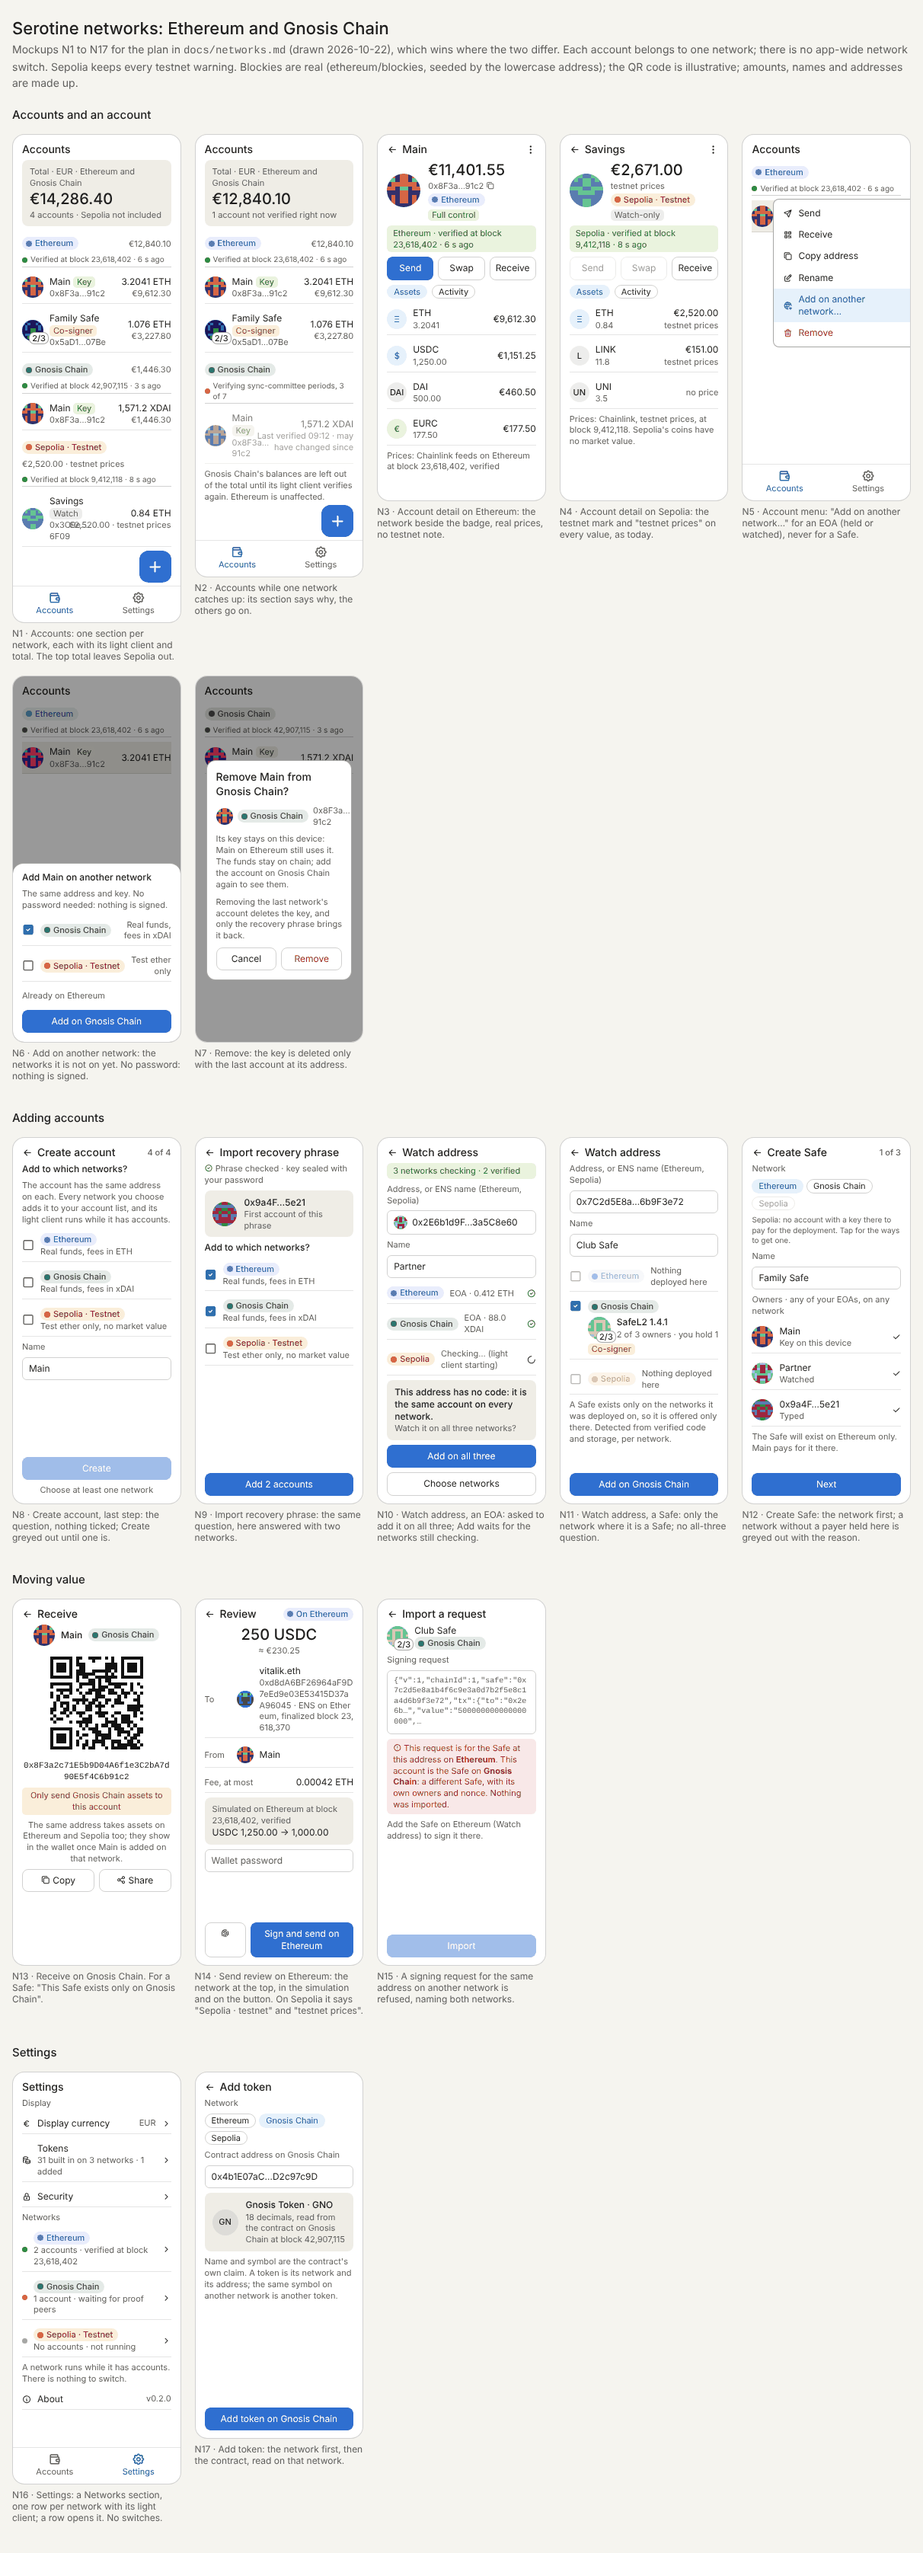
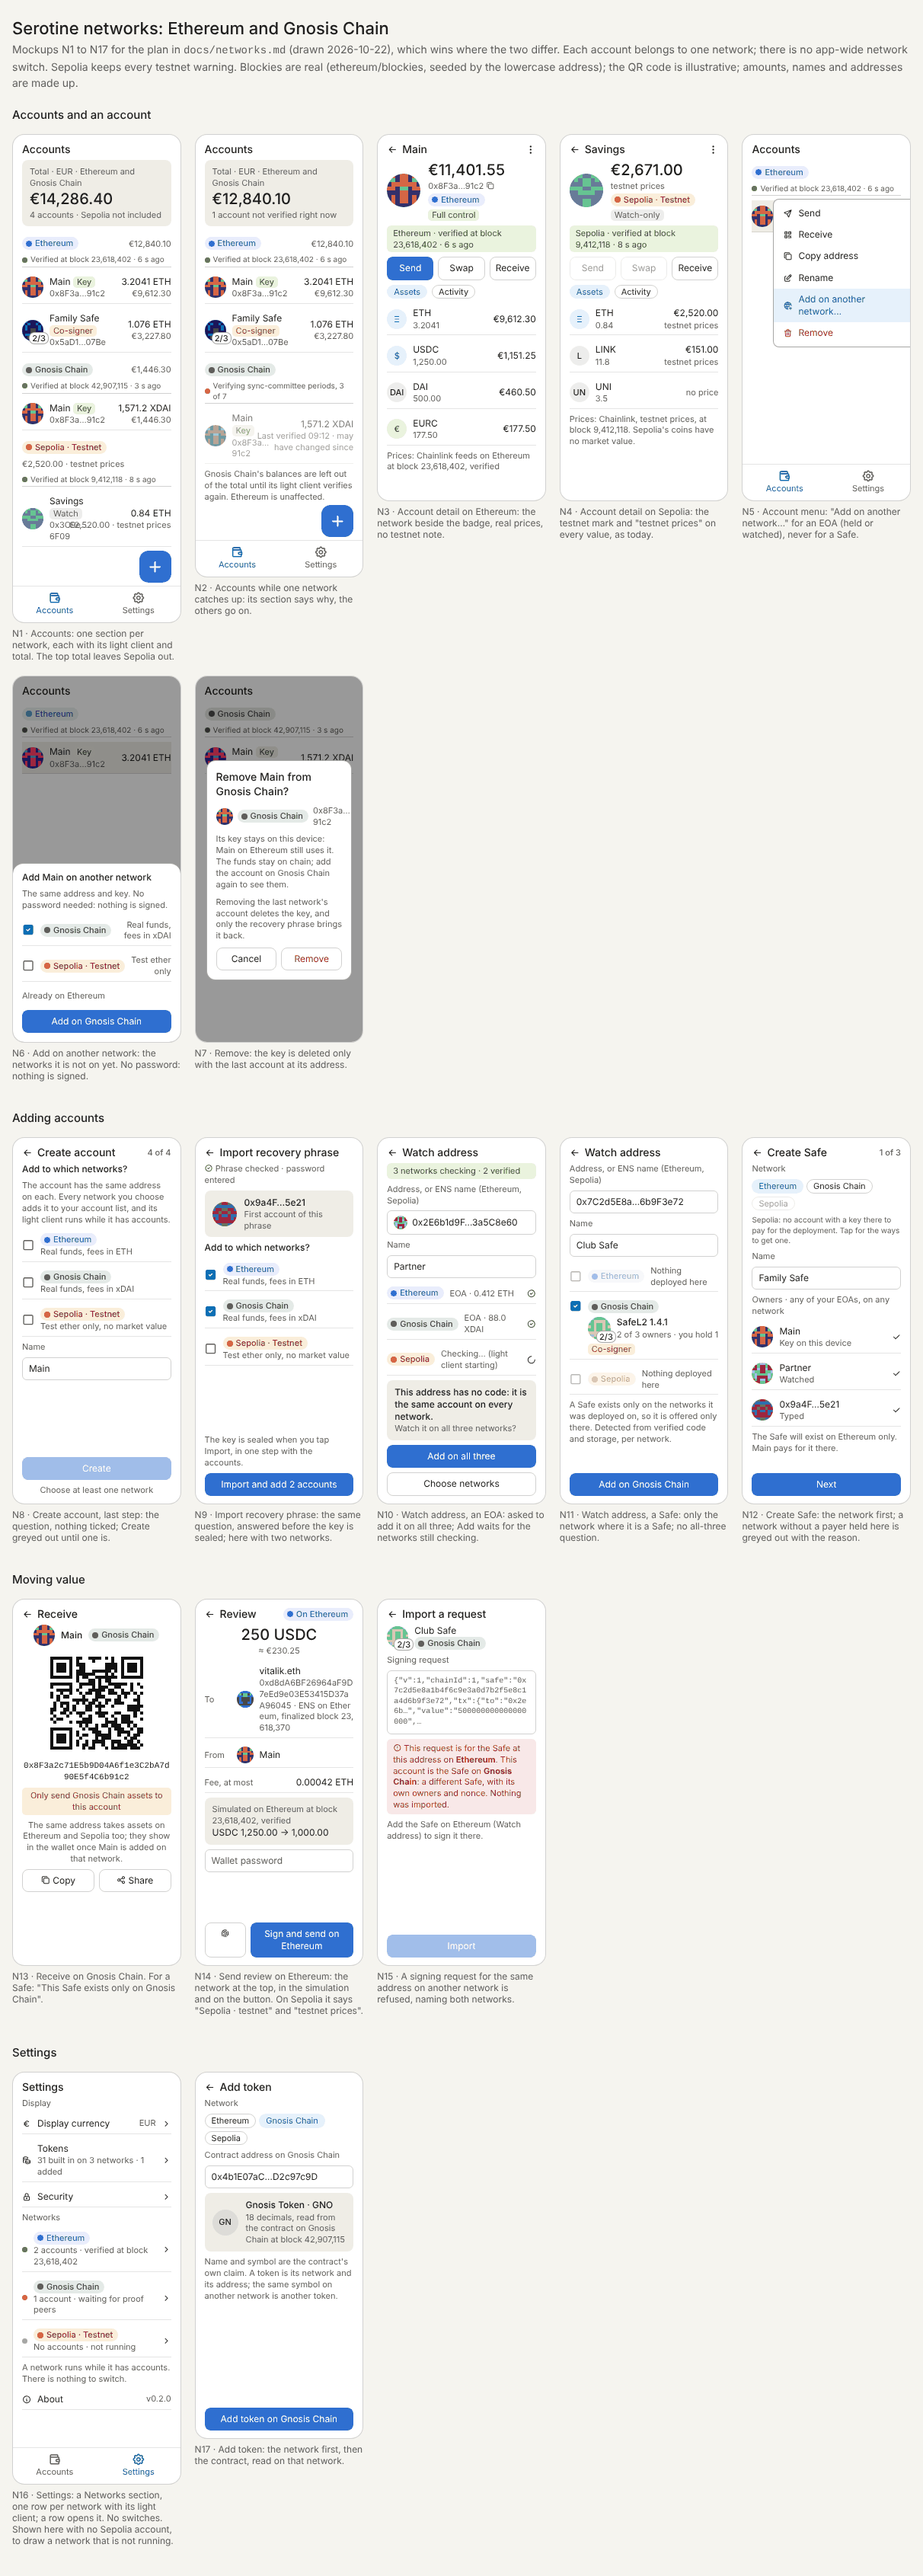
Review: the key is sealed with its accounts; the merge question is open; N16's caption
- Import asks the network question before the key is sealed, and seals the
  key and adds the accounts in one step, as ImportMnemonicAccount does today,
  so no envelope is left without an account (N9 redrawn).
- The plan says the part-merge question of CLAUDE.md's multi-PR rule is still
  the owner's to answer.
- N16's caption and text say it is drawn with no Sepolia account, unlike N1.

Claude-Session: https://claude.ai/code/session_01B5KcUadnEvACcxacJi8eya

diff --git a/docs/networks-screens.html b/docs/networks-screens.html
@@ -193,14 +193,15 @@ h2.grp{font-size:15px;font-weight:500;margin:22px 0 0}
 <div><div class="ph">
 <div class="hd"><i class="ti ti-arrow-left" aria-hidden="true"></i><span class="f">Import recovery phrase</span></div>
 <div class="bd">
-<div class="m"><i class="ti ti-circle-check" style="color:var(--text-success)" aria-hidden="true"></i> Phrase checked · key sealed with your password</div>
+<div class="m"><i class="ti ti-circle-check" style="color:var(--text-success)" aria-hidden="true"></i> Phrase checked · password entered</div>
 <div class="tot" style="display:flex;gap:10px;align-items:center"><canvas class="bl" style="width:32px;height:32px" data-a="0x9a4fe2c71b6d3e8a5c9f0b2d7e4a1c6f3b8d5e21" width="8" height="8"></canvas><div><div style="font-weight:500">0x9a4F…5e21</div><div class="m">First account of this phrase</div></div></div>
 <div style="font-weight:500">Add to which networks?</div>
 <div class="r"><i class="ti ti-square-check-filled ck" aria-hidden="true"></i><div class="f"><span class="nw eth">Ethereum</span><div class="m">Real funds, fees in ETH</div></div></div>
 <div class="r"><i class="ti ti-square-check-filled ck" aria-hidden="true"></i><div class="f"><span class="nw gno">Gnosis Chain</span><div class="m">Real funds, fees in xDAI</div></div></div>
 <div class="r"><i class="ti ti-square cko" aria-hidden="true"></i><div class="f"><span class="nw sep">Sepolia · Testnet</span><div class="m">Test ether only, no market value</div></div></div>
-<div class="btn pri" style="margin-top:auto;margin-bottom:10px">Add 2 accounts</div>
-</div></div><div class="cap">N9 · Import recovery phrase: the same question, here answered with two networks.</div></div>
+<div class="m" style="margin-top:auto">The key is sealed when you tap Import, in one step with the accounts.</div>
+<div class="btn pri" style="margin-bottom:10px">Import and add 2 accounts</div>
+</div></div><div class="cap">N9 · Import recovery phrase: the same question, answered before the key is sealed; here with two networks.</div></div>
 
 <div><div class="ph">
 <div class="hd"><i class="ti ti-arrow-left" aria-hidden="true"></i><span class="f">Watch address</span></div>
@@ -302,7 +303,7 @@ h2.grp{font-size:15px;font-weight:500;margin:22px 0 0}
 <div class="r"><i class="ti ti-info-circle" aria-hidden="true"></i><div class="f">About</div><span class="m">v0.2.0</span></div>
 </div>
 <div class="nav"><div><i class="ti ti-wallet" aria-hidden="true"></i>Accounts</div><div class="on"><i class="ti ti-settings" aria-hidden="true"></i>Settings</div></div>
-</div><div class="cap">N16 · Settings: a Networks section, one row per network with its light client; a row opens it. No switches.</div></div>
+</div><div class="cap">N16 · Settings: a Networks section, one row per network with its light client; a row opens it. No switches. Shown here with no Sepolia account, to draw a network that is not running.</div></div>
 
 <div><div class="ph">
 <div class="hd"><i class="ti ti-arrow-left" aria-hidden="true"></i><span class="f">Add token</span></div>

diff --git a/docs/networks.md b/docs/networks.md
@@ -305,7 +305,17 @@ network where docs/wallet-ux.md has it say "Sepolia" today.
   ether only"). Create is greyed out until one is ticked; a tap on it says
   so. The key is sealed once; one account per network ticked is added under
   the name given.
-- **N9 Import recovery phrase**: the same question at the end of the import.
+- **N9 Import recovery phrase**: the same question, the last thing asked
+  before Import.
+- **The key is sealed only together with its accounts.** The network
+  question is answered before the seal, never after it. Then the seal and
+  the accounts are added in one step that a cancelled caller cannot cut in
+  half, as `ImportMnemonicAccount` already does for its one account: key
+  first, then the accounts. So no envelope is ever left without an account
+  pointing at it, and `RemoveAccount`'s last-account rule always has one to
+  find. An address already watched on some networks becomes held there,
+  whether or not those networks were ticked, and the ticked ones add the
+  rest.
 - **N10 Watch address, an EOA**: the address (or a name, on Ethereum or
   Sepolia), then the detection per network, each row with what the network
   says (EOA, and the native balance once verified). When the address is an
@@ -340,6 +350,8 @@ network where docs/wallet-ux.md has it say "Sepolia" today.
   per network shows its accounts and its light client ("2 accounts · Verified
   at block N", "No accounts · not running"). A row opens that network's light
   client. There are no switches: a network runs because it has accounts.
+  (The mockup has no Sepolia account, unlike N1, so that it can draw a
+  network that is not running.)
 - **N17 Add token**: the network first, then the address, read on that
   network.
 
@@ -394,6 +406,12 @@ releasable. The parts, in order:
 
 Parts 4 and 5 are independent once 3 is in and can be reviewed in either
 order.
+
+**Still the owner's to answer before part 1 is coded** (CLAUDE.md, step 3
+of the multi-PR rule): may the part PRs be merged into `feature/networks`
+without waiting for the owner, or does the owner merge each one? The answer
+lives in the conversation where it is given. Until a session has it in its
+own conversation, the owner merges each part.
 
 ## Open questions, the owner's to decide
 
